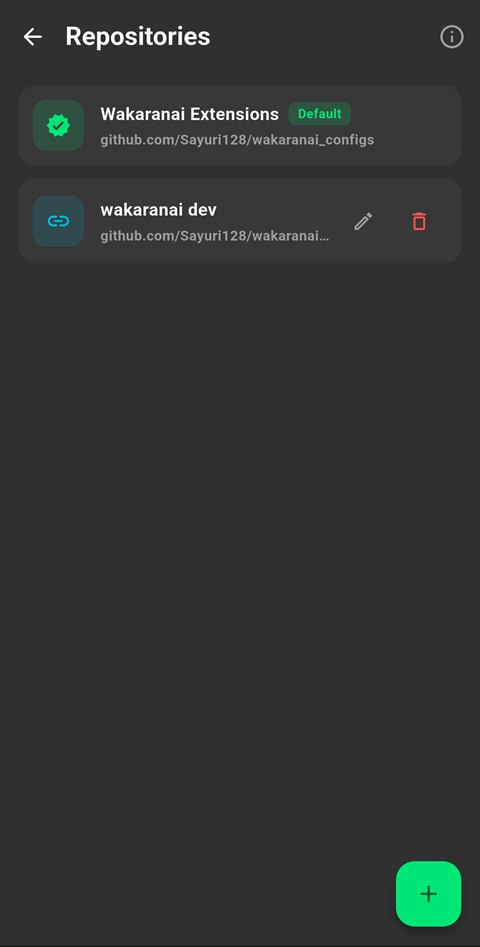
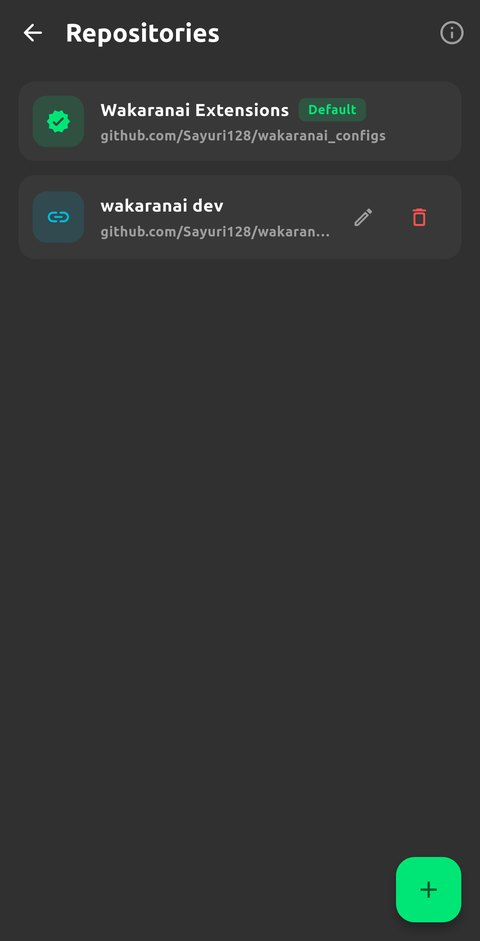
docs(extensions): update the repository guide and screenshots and add api 2 templates for every source type

diff --git a/docs/inapp_docs/external_extension_sources.md b/docs/inapp_docs/external_extension_sources.md
@@ -5,7 +5,8 @@ own repository instead of (or alongside) the official one.
 
 ## Adding a repository
 
-Open **Explore → Sources**, tap the **+** button, and fill in:
+On the **Explore** tab, tap the repository name at the top of the screen to open **Repositories**,
+then tap the **+** button and fill in:
 
 * **URL** — the GitHub repository, e.g. `https://github.com/Sayuri128/wakaranai_configs`
 * **Name** — how the repository is labelled in the app
@@ -20,7 +21,7 @@ always listed first and cannot be removed.
 <table>
   <tr>
       <td>
-        <img width="320px" src="1.jpg" alt="Extensions list with the Sources button"/>
+        <img width="320px" src="1.jpg" alt="The Explore tab with the repository name at the top"/>
       </td>
       <td>
          <img width="320px" src="2.jpg" alt="Repositories list"/>
@@ -33,8 +34,8 @@ always listed first and cannot be removed.
 
 ## Repository structure
 
-The repository needs `manga` and/or `anime` directories, with one directory per extension
-containing a `config.json` and a `main.capyscript`:
+The repository needs at least one of the `manga`, `anime`, `novel` and `audio` directories, with one
+directory per extension containing a `config.json` and a `main.capyscript`:
 
 ```
 ├── manga
@@ -48,7 +49,18 @@ containing a `config.json` and a `main.capyscript`:
 │   ├── extension1
 │   │   ├── config.json
 │   │   └── main.capyscript
+├── novel
+│   ├── extension1
+│   │   ├── config.json
+│   │   └── main.capyscript
+├── audio
+│   ├── extension1
+│   │   ├── config.json
+│   │   └── main.capyscript
 ```
+
+Ready-made starting points for each type are in the
+[extension templates](../guides/extension_templates).
 
 ## Optional: index.json
 
@@ -63,13 +75,25 @@ so it loads faster and is much less likely to hit GitHub's rate limit for unauth
     {
       "category": "manga",
       "path": "manga/extension1",
+      "revision": "7cd0cbcd61367c08",
+      "apiVersion": 2,
+      "minAppVersion": "1.0.0",
       "config": { "...contents of config.json..." }
     }
   ]
 }
 ```
 
-If `index.json` is missing, the app falls back to scanning the `manga` and `anime` directories, so
-it is entirely optional — just keep it in sync with the configs when you add or update an extension.
+* `revision` is any string that changes whenever the extension changes. Installed extensions update
+  when it differs. Without it, the app compares `version` from `config.json` instead.
+* `apiVersion` and `minAppVersion` are copied from `config.json`, so the app can mark an extension
+  that needs a newer app without downloading its script.
+
+The easiest way to produce this file is
+[`tool/build_index.dart`](https://github.com/Sayuri128/wakaranai_configs/blob/main/tool/build_index.dart)
+from the official repository; run it again whenever you add or update an extension.
+
+If `index.json` is missing, the app falls back to scanning the `manga`, `anime`, `novel` and `audio`
+directories, so it is entirely optional.
 
 See the guide for creating extensions [here](../guides/extensions.md).

diff --git a/docs/guides/extensions.md b/docs/guides/extensions.md
@@ -200,6 +200,8 @@ Each episode is a `buildAnimeVideo` with a stable `uid`. Groups usually stand fo
 player (for example one group per dub and player), and the app keeps the same episode `number`
 when the user switches between them.
 
+see [template](./extension_templates/anime)
+
 ### getVideoSources
 
 Optional. Lets the app play an episode in its native player, and download it for offline
@@ -298,6 +300,8 @@ scripts and styles are ignored) or plain text. Strip ads, navigation links and c
 the script: the app shows whatever it receives. Returning a plain string instead of
 `buildNovelChapter(...)` also works and is treated as `html`.
 
+see [template](./extension_templates/novel)
+
 The app keeps the reading position of each chapter, offers previous and next chapter in the reader
 (in the order of the chapter group) and saves chapters for offline reading by calling
 `getChapterText` once and storing the result.
@@ -317,6 +321,8 @@ and `passProtector` all work the same way, and it builds its models with the
 `buildConcrete`, `buildChapter`, `buildChapterGroups` and the `status*` constants with the same
 arguments as `manga_models`. Each chapter is a track (a part, section or chapter file of the
 book). It has no `getPages`; `getImageHeaders` is only needed when covers need headers.
+
+see [template](./extension_templates/audio)
 
 Instead of page images, the app asks for the playable audio of a track:
 

diff --git a/docs/guides/readme.md b/docs/guides/readme.md
@@ -7,5 +7,6 @@
 * [External extension sources](../inapp_docs/external_extension_sources.md) — hosting your own
   extension repository and pointing the app at it.
 
-Templates for a new manga extension live in
-[extension_templates/manga](extension_templates/manga).
+Templates for new extensions live in [extension_templates](extension_templates), one folder each for
+manga, anime, novels and audiobooks. They declare the api 2 fields (`feeds`, `pagination`,
+`preferences`, `protectorConfig`) as examples; remove whichever your extension doesn't use.
